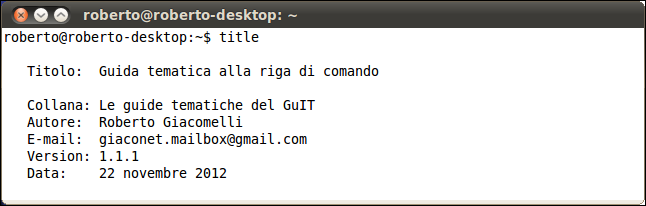
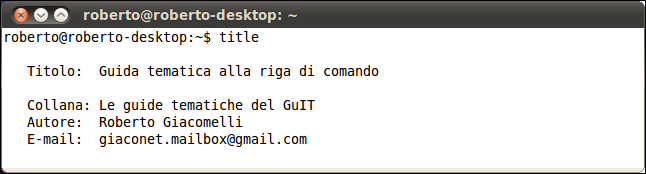
Correzioni al numero di versione

diff --git a/guidaConsole.tex b/guidaConsole.tex
@@ -31,7 +31,7 @@
 
 \title{\includegraphics[width=0.1\textwidth]{image/terminal-icon}\par Guida tematica alla riga di comando}
 \author{Roberto Giacomelli}
-\date{22/11/2012 v.1.1.1}
+\date{27/12/2012 v.1.1.2}
 
 \begin{document}
 \frontmatter
